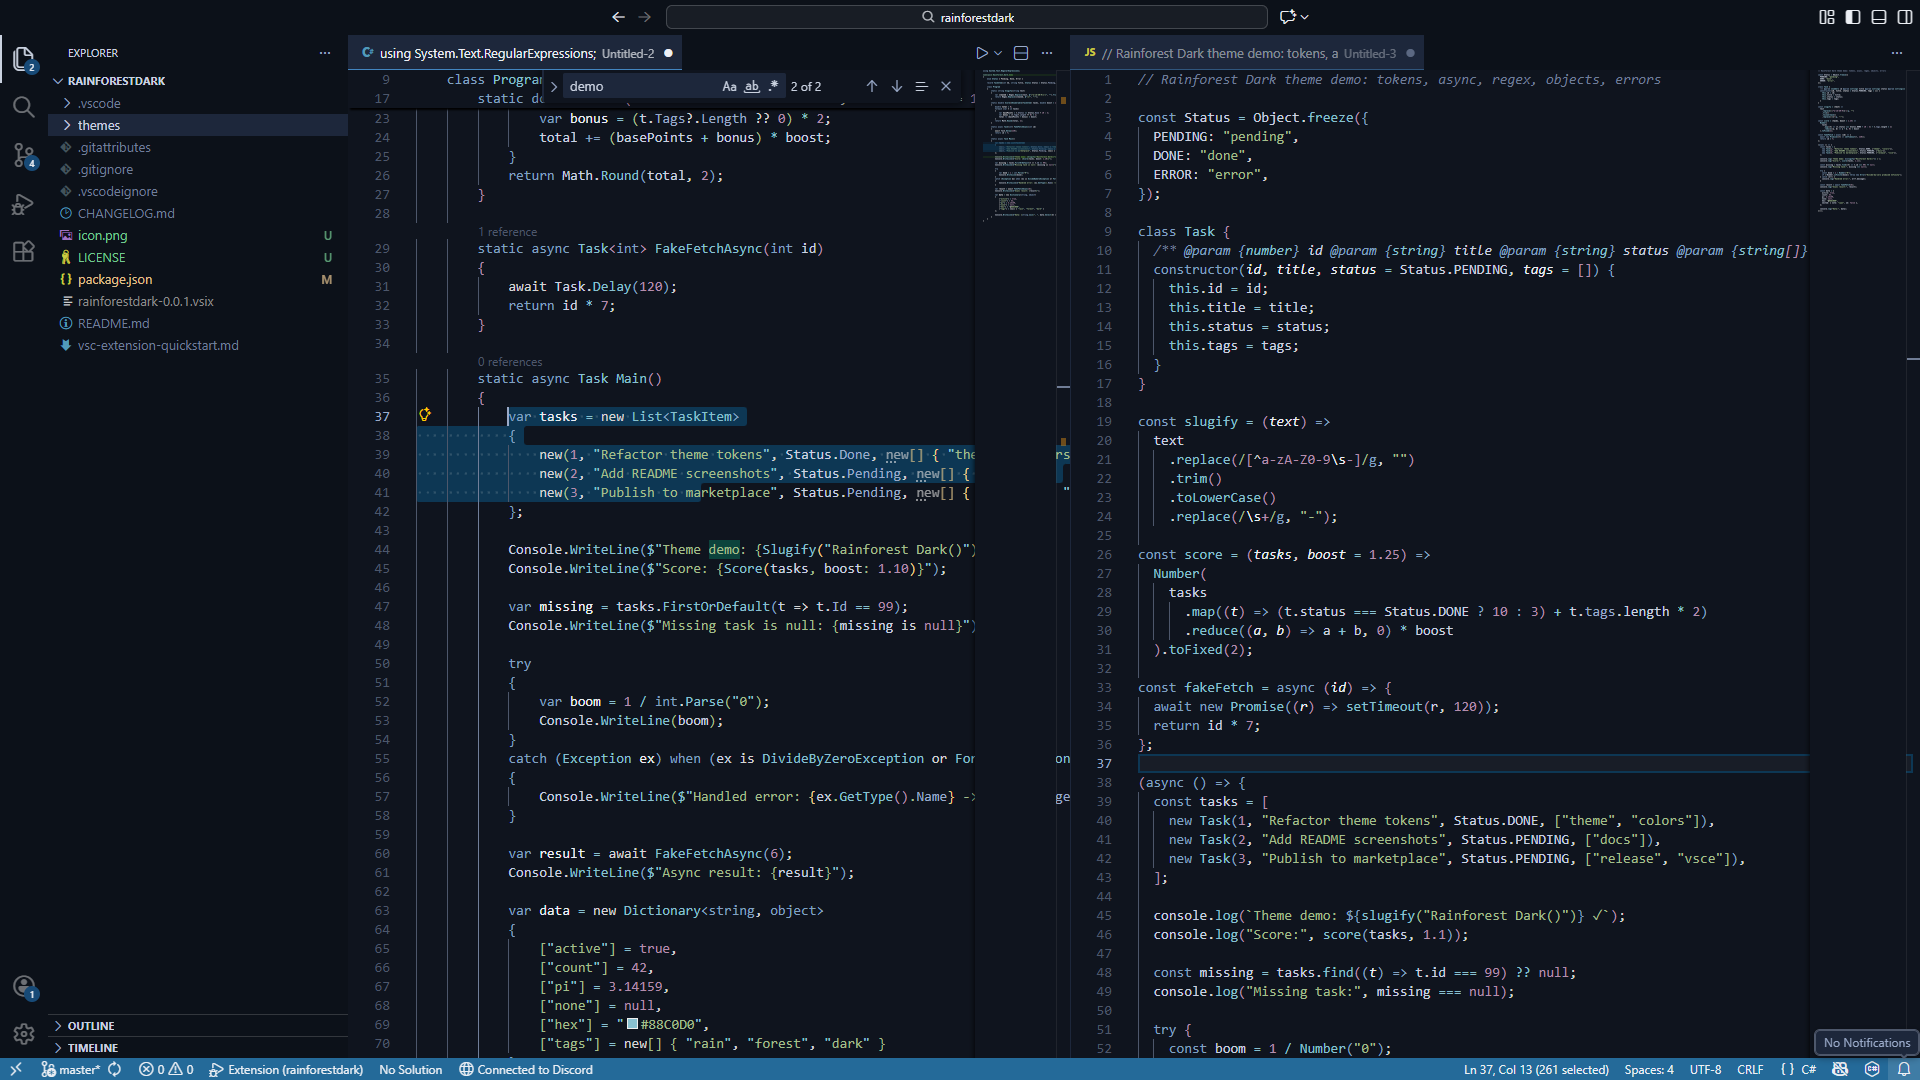
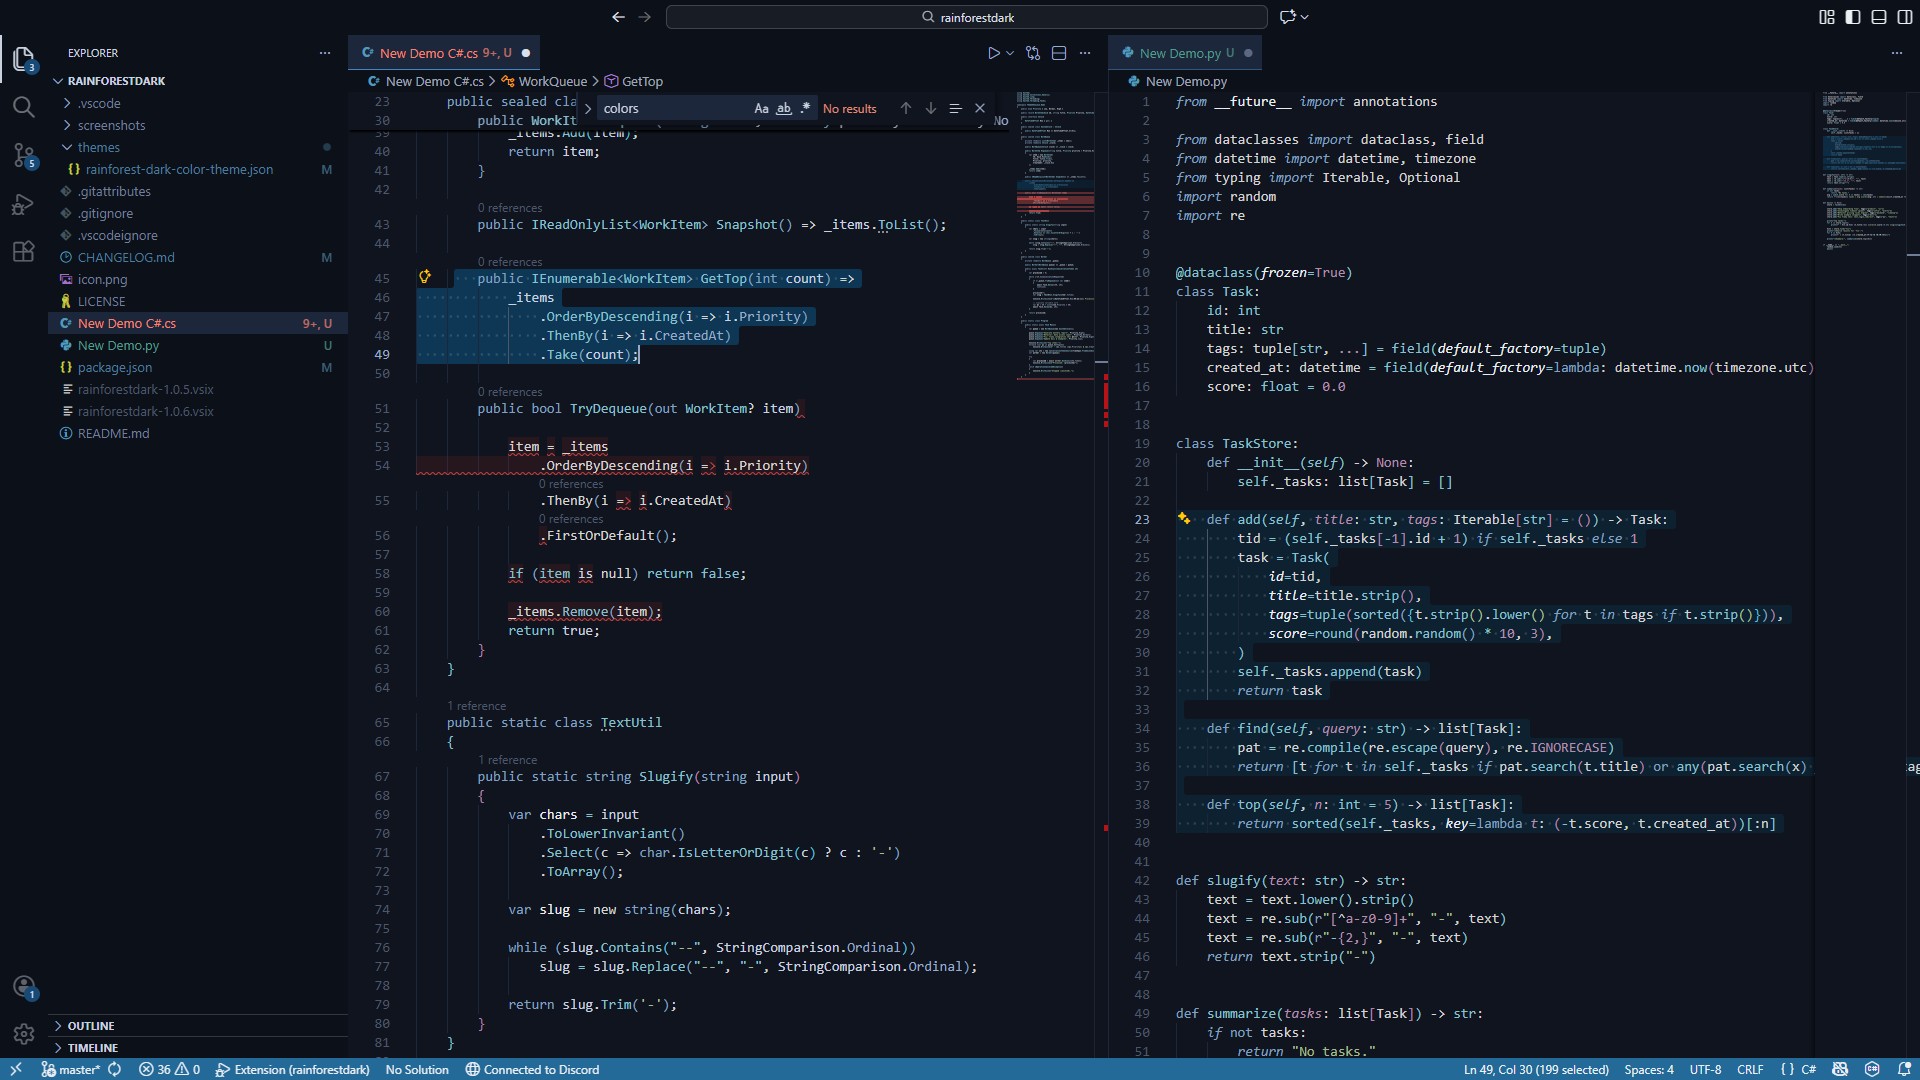
v1.0.6
- Updated preview screenshot.
- Changed editor bracket foreground colors (I'm very, very indecisive on what colors I prefer so it might change even more later on, soz).

diff --git a/CHANGELOG.md b/CHANGELOG.md
@@ -1,5 +1,10 @@
 # Change Log
 
+## [v1.0.6]
+
+- Updated preview screenshot.
+- Changed editor bracket foreground colors (I'm very, very indecisive on what colors I prefer so it might change even more later on, soz).
+
 ## [v1.0.5]
 
 - Added colors for some missed tokens.
